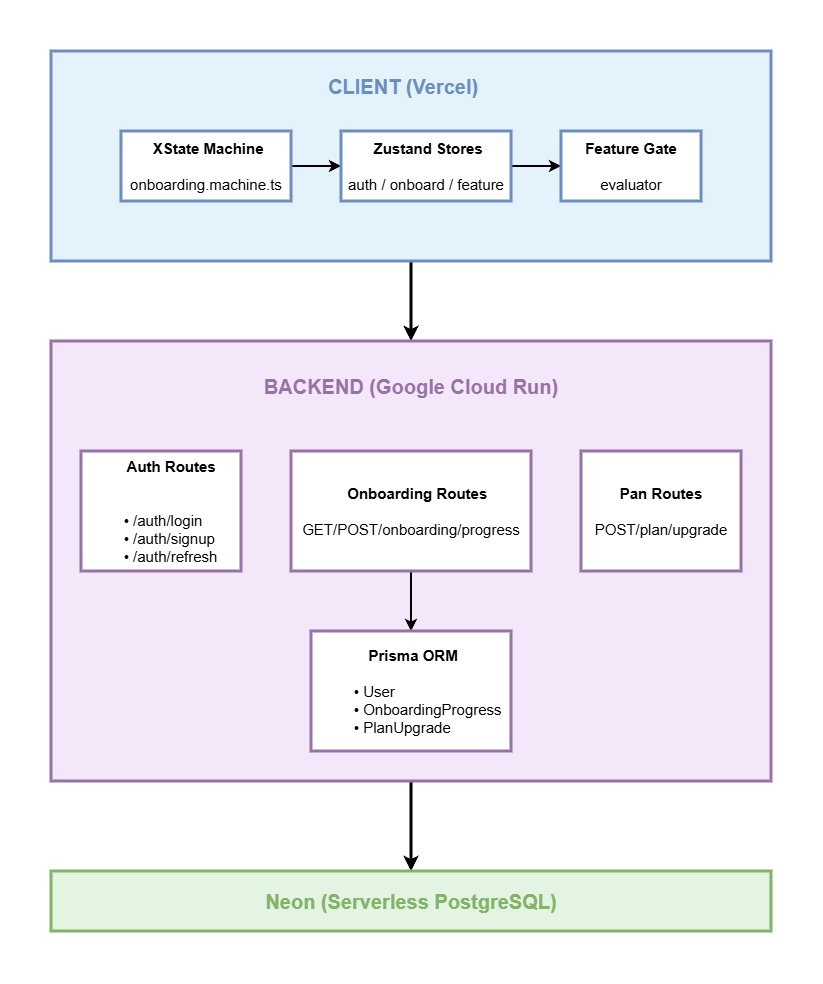
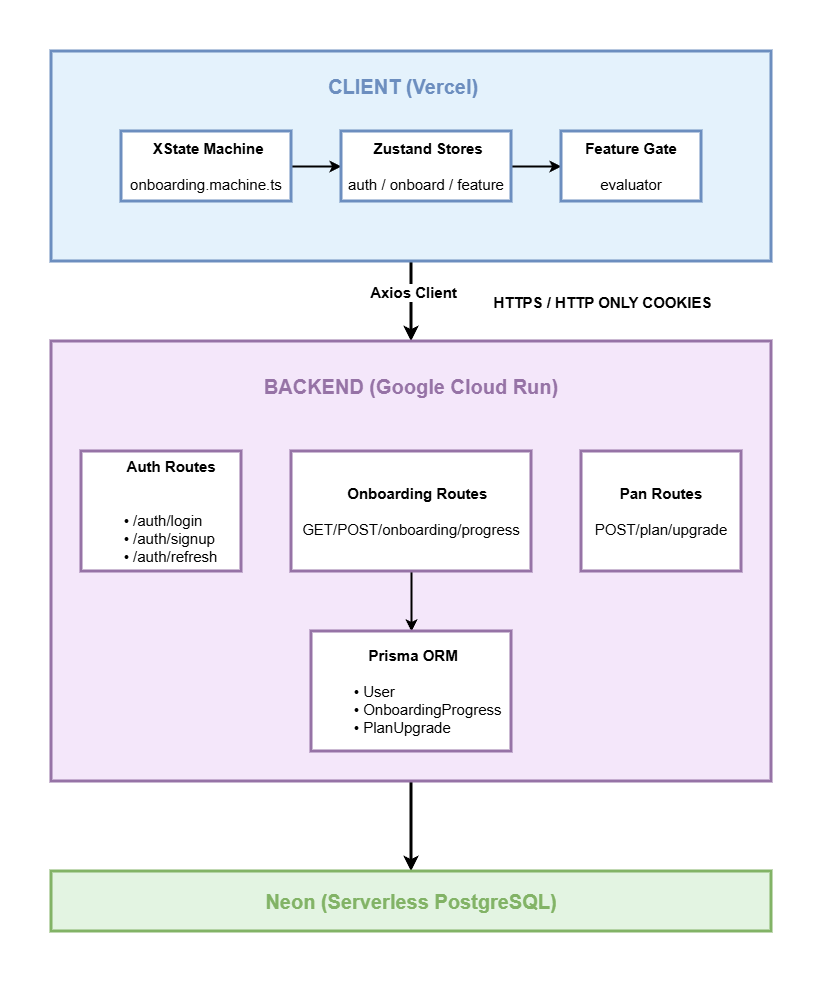
Updating Diagrams + frontend workflows

diff --git a/docs/SYSTEM ARCHITECTURE.md b/docs/SYSTEM ARCHITECTURE.md
@@ -4,6 +4,7 @@
 
 Pipeflow is a **single-page application** with a lean REST API backend. The architectural complexity lives entirely on the frontend — specifically in the XState onboarding machine and the feature gate system. The backend is a thin persistence and auth layer.
 
+![Architecture Overview](/assets/Architecture-Overview.png)
 ```
 ┌─────────────────────────────────────────────────────────────┐
 │                        USER BROWSER                         │
@@ -61,39 +62,8 @@ Pipeflow is a **single-page application** with a lean REST API backend. The arch
 
 The onboarding flow is modelled as a **finite state machine**. This is the engineering centrepiece of the project.
 
-```
-                    ┌─────────┐
-            ┌──────►│  idle   │ (not started / unauthenticated)
-            │       └────┬────┘
-            │            │ START
-            │       ┌────▼────┐
-            │       │  step1  │ Profile (role, team size, use case)
-            │       └────┬────┘
-            │            │ NEXT [guard: step1Valid]
-            │       ┌────▼────┐
-            │       │  step2  │ Workspace (name, invite emails)
-            │       └────┬────┘
-            │            │ NEXT [guard: step2Valid]
-            │       ┌────▼────────────────────────┐
-            │       │  step3  │ Integrations        │
-            │       │  (optional — can SKIP)        │
-            │       └────┬────────────────────────-─┘
-            │            │ NEXT or SKIP
-            │       ┌────▼────┐
-            │       │  step4  │ Feature Tour (interactive highlights)
-            │       └────┬────┘
-            │            │ NEXT
-            │       ┌────▼────────┐
-            │       │   step5     │ Complete screen
-            │       └────┬────────┘
-            │            │ GO_TO_DASHBOARD
-            │       ┌────▼────────┐
-            │       │  complete   │ (terminal state)
-            └───────┴─────────────┘
-                 ABANDON (any step)
-                 → persists to backend
-                 → ResumeBanner shown on next login
-```
+![XState Onboarding Machine](/assets/XState-Onboarding.drawio.png)
+
 
 **Machine Context (carried through all states):**
 ```typescript
@@ -124,42 +94,8 @@ interface OnboardingContext {
 
 Feature gating checks two independent conditions:
 
-```
-Feature Gate Decision Tree
-──────────────────────────
+![Feature Gate Decision Tree](/assets/Feature-Gate-Architecture.png)
 
-                    ┌──────────────────────┐
-                    │   useFeatureGate()   │
-                    │   (called by any     │
-                    │    component)        │
-                    └──────────┬───────────┘
-                               │
-              ┌────────────────▼─────────────────┐
-              │       Check 1: Plan Tier          │
-              │  Does user's plan include         │
-              │  this feature key?                │
-              └────────┬─────────────┬────────────┘
-                       │ NO          │ YES
-               ┌───────▼──────┐     │
-               │ GATED        │     │
-               │ reason:      │     │
-               │ "upgrade"    │     │
-               │ show Upgrade │     │
-               │ Prompt       │     │
-               └──────────────┘     │
-                              ┌─────▼──────────────────────┐
-                              │  Check 2: Onboarding Step  │
-                              │  Does this feature require  │
-                              │  a specific step complete?  │
-                              └─────┬──────────┬────────────┘
-                                    │ NO       │ YES — is step done?
-                                    │          │
-                            ┌───────▼──┐  ┌────▼──────────────────┐
-                            │ ENABLED  │  │ GATED                 │
-                            │ render   │  │ reason: "complete step │
-                            │ children │  │ X to unlock"          │
-                            └──────────┘  └───────────────────────┘
-```
 
 **Feature Key → Gate Rule Map (defined in `lib/constants.ts`):**
 
@@ -297,8 +233,9 @@ Refresh
 │  (static build) │          │  portfolio-projects GCP   │
 │                 │          │                           │
 └─────────────────┘          └──────────┬────────────────┘
-                                       │
-                            ┌──────────▼────────────────┐
+                                        │
+                                        ▼
+                            ┌───────────────────────────┐
                             │    Neon PostgreSQL        │
                             │    (Serverless)           │
                             └───────────────────────────┘
